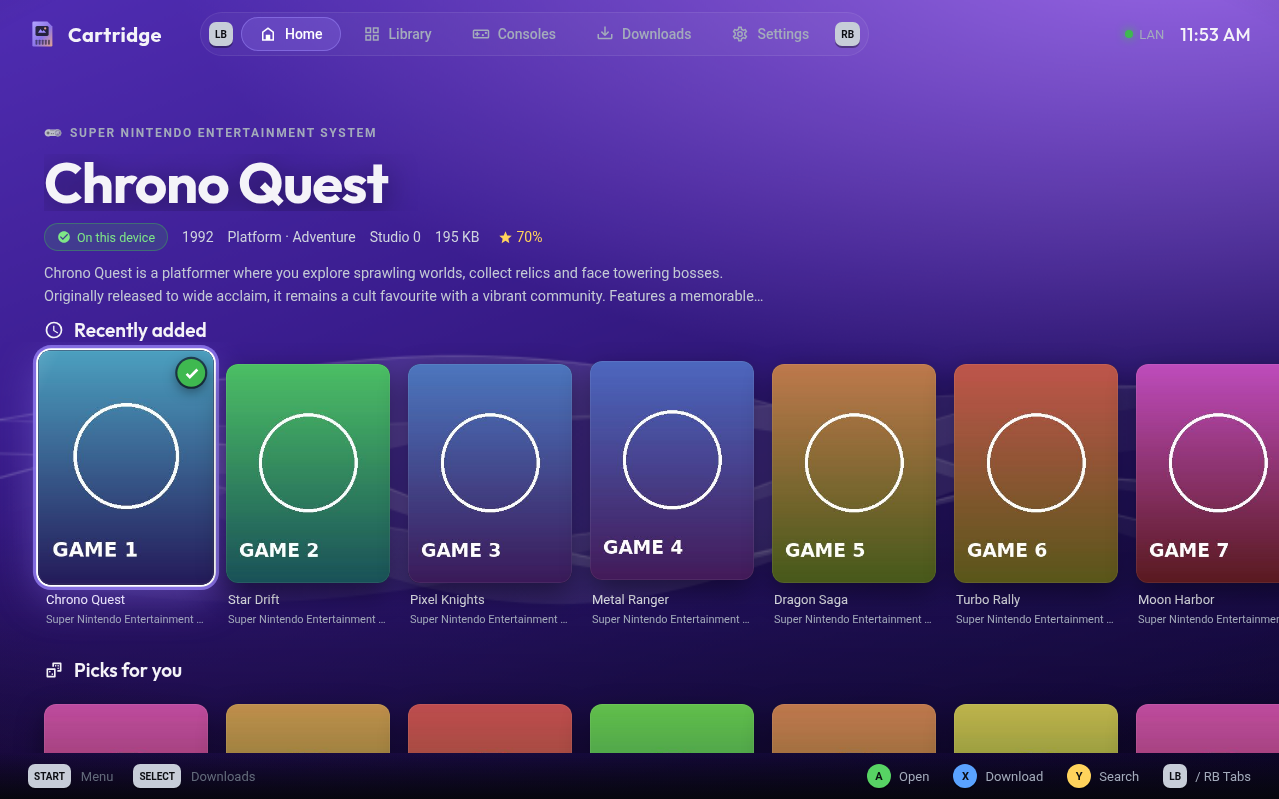
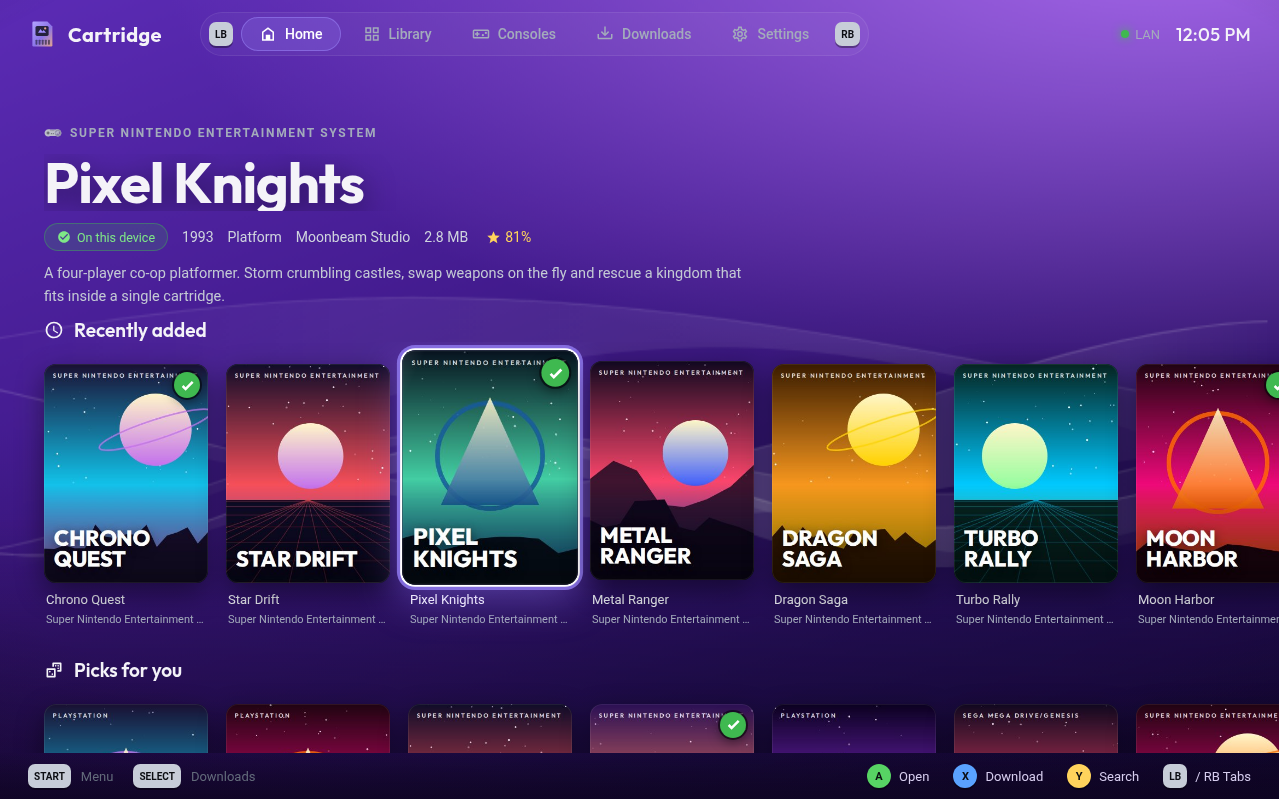
Release 2.3.1: new README, fresh screenshots, auto-publish on version bump
- Revamped front page with badges, download button, highlights and tour
- Screenshots retaken on the XMB background with a full demo library
- Release workflow now runs when package.json version changes on main
- Toasts move aside while the Quick Menu is open

Claude-Session: https://claude.ai/code/session_01TWmdTMdKUi4SSP1imipT8V

diff --git a/src/styles.css b/src/styles.css
@@ -150,6 +150,7 @@ img { -webkit-user-drag: none; }
 .toast .ti { width: 30px; height: 30px; border-radius: 50%; display: grid; place-items: center; background: rgba(139, 116, 232, 0.25); color: #cfc4ff; flex: none; }
 .toast.ok .ti { background: rgba(63, 185, 80, 0.2); color: var(--green-l); }
 .toast.error .ti { background: rgba(255, 107, 97, 0.18); color: #ffa39c; }
+.toasts.shifted { right: 430px; }
 @keyframes toastIn { from { transform: translateX(30px); opacity: 0; } }
 
 .scrim { position: fixed; inset: 0; background: rgba(3, 4, 7, 0.66); backdrop-filter: blur(10px); display: grid; place-items: center; z-index: 50; animation: fade 0.2s; }

diff --git a/src/App.vue b/src/App.vue
@@ -39,7 +39,7 @@
   <FolderPicker v-if="store.modal?.type === 'folder'" v-bind="store.modal.props" />
   <Menu v-if="store.modal?.type === 'menu'" v-bind="store.modal.props" />
 
-  <div class="toasts">
+  <div class="toasts" :class="{ shifted: store.quickMenu }">
     <div v-for="t in store.toasts" :key="t.id" class="toast" :class="t.kind"><span class="ti"><Icon :name="t.icon" :size="18" /></span>{{ t.msg }}</div>
   </div>
 </template>

diff --git a/README.md b/README.md
@@ -1,60 +1,133 @@
-<p align="center"><img src="docs/banner.png" width="620" alt="Cartridge"></p>
+<div align="center">
 
-<p align="center"><b>Your RomM library, on the couch.</b><br>
-A controller-first RomM client for SteamOS and Bazzite. Browse your library in Game Mode and pull games straight into your EmuDeck / ES-DE folders.</p>
+<img src="docs/logo.png" width="520" alt="Cartridge">
 
-<p align="center"><a href="https://github.com/abdu2304/cartridge/releases/latest/download/Cartridge-x86_64.AppImage"><b>⬇ Download Cartridge-x86_64.AppImage</b></a></p>
+### Your RomM library, on the couch.
 
-![Home](docs/home.png)
+A controller-first [RomM](https://github.com/rommapp/romm) client for **SteamOS** and **Bazzite**.<br>
+Browse your whole library in Game Mode and pull games straight into your EmuDeck / ES-DE folders.
 
-| Library | Consoles |
-|---|---|
-| ![Library](docs/library.png) | ![Consoles](docs/consoles.png) |
+[![Latest release](https://img.shields.io/github/v/release/abdu2304/cartridge?style=for-the-badge&color=8b74e8&label=release)](https://github.com/abdu2304/cartridge/releases/latest)
+[![Downloads](https://img.shields.io/github/downloads/abdu2304/cartridge/total?style=for-the-badge&color=a18fff)](https://github.com/abdu2304/cartridge/releases)
+[![Platform](https://img.shields.io/badge/SteamOS%20%7C%20Bazzite-AppImage-e1a38d?style=for-the-badge&logo=steamdeck&logoColor=white)](#install)
+[![License](https://img.shields.io/badge/license-MIT-6043c8?style=for-the-badge)](LICENSE)
 
-![Game page](docs/game.png)
+<a href="https://github.com/abdu2304/cartridge/releases/latest/download/Cartridge-x86_64.AppImage"><img src="https://img.shields.io/badge/Download-Cartridge--x86__64.AppImage-8b74e8?style=for-the-badge&logo=linux&logoColor=white" height="42" alt="Download"></a>
 
-## What it does
+<br><br>
 
-- **Your RomM library, synced locally.** Opens instantly and works offline. Covers, screenshots, descriptions, genres, console icons and collections all come straight from RomM.
-- **Home like RomM.** Recently added, Picks for you, On this device, New since last sync, Collections and Consoles.
-- **Downloads into the right folder.** Every console is matched to its ES-DE folder name inside your EmuDeck `roms` folder, and you can override any of them.
-- **Resumable downloads.** Multi-file games download file by file, and multi-disc games get an `.m3u` and a `Game.m3u/` folder so ES-DE shows them as one game.
-- **BIOS** from RomM's firmware, per console.
-- **Resync and Scan server** pick up new games you add to RomM, with NEW badges.
-- **Built for Game Mode.** Full controller navigation, an on-screen keyboard, a PSP XMB-style background, UI sounds, and a Quick Menu on Start.
-- **Connects any way.** LAN address, Cloudflare Tunnel, or both with automatic fallback. Supports username/password, RomM pairing codes, API tokens and Cloudflare Access service tokens.
-- **Updates itself** from GitHub Releases.
+<img src="docs/home.png" width="900" alt="Cartridge home screen">
 
-## Install on Steam Deck / Bazzite
+</div>
 
-1. In Desktop Mode, download [`Cartridge-x86_64.AppImage`](https://github.com/abdu2304/cartridge/releases/latest/download/Cartridge-x86_64.AppImage) and move it somewhere permanent, like `~/Applications/`. Keep the file name as it is, because updates replace it in place.
-2. Right-click it → Properties → Permissions → **Is executable**.
+<br>
+
+## ✦ Highlights
+
+<table>
+<tr>
+<td width="50%" valign="top">
+
+**🎮 Made for Game Mode**<br>
+Every screen works with a controller: D-pad navigation, an on-screen keyboard, button hints, a Quick Menu on Start, soft UI sounds and a PSP XMB-inspired background.
+
+</td>
+<td width="50%" valign="top">
+
+**🗂 Straight from RomM**<br>
+Covers, screenshots, descriptions, genres, developers, ratings, console icons and collections all come from your RomM server. Nothing is scraped twice.
+
+</td>
+</tr>
+<tr>
+<td valign="top">
+
+**📥 Lands in the right folder**<br>
+Each console is matched to its ES-DE folder inside your EmuDeck `roms` directory, with per-console overrides. Downloads resume, multi-disc games get an `.m3u`, and BIOS files come from RomM too.
+
+</td>
+<td valign="top">
+
+**🔄 Always in sync**<br>
+Your library is mirrored locally, so it opens instantly and works offline. Resync or ask RomM to scan for new ROMs from the couch, and new games get a NEW badge.
+
+</td>
+</tr>
+</table>
+
+<br>
+
+## ✦ Tour
+
+<table>
+<tr>
+<td width="50%"><img src="docs/library.png" alt="Library"><p align="center"><b>Library</b> · every game, filter by console, collection or status</p></td>
+<td width="50%"><img src="docs/consoles.png" alt="Consoles"><p align="center"><b>Consoles</b> · your RomM platforms with icons and counts</p></td>
+</tr>
+<tr>
+<td><img src="docs/console.png" alt="Console view"><p align="center"><b>Console view</b> · box art grid with a live details panel</p></td>
+<td><img src="docs/game.png" alt="Game page"><p align="center"><b>Game page</b> · metadata, screenshots and one-button download</p></td>
+</tr>
+<tr>
+<td><img src="docs/downloads.png" alt="Downloads"><p align="center"><b>Downloads</b> · queue, progress, pause and resume</p></td>
+<td><img src="docs/settings.png" alt="Settings"><p align="center"><b>Settings</b> · sync, folders, look &amp; feel</p></td>
+</tr>
+</table>
+
+<br>
+
+## ✦ Install
+
+1. In **Desktop Mode**, download [`Cartridge-x86_64.AppImage`](https://github.com/abdu2304/cartridge/releases/latest/download/Cartridge-x86_64.AppImage) and move it somewhere permanent, like `~/Applications/`.
+   Keep the file name as it is, because updates replace it in place.
+2. Right-click it → **Properties → Permissions → Is executable**.
 3. In Steam: **Games → Add a Non-Steam Game to My Library → Browse** and pick the AppImage.
-4. Open Cartridge, sign in, and choose your `roms` folder. It auto-detects EmuDeck and ES-DE.
+4. Launch Cartridge, sign in to RomM, and choose your `roms` folder. EmuDeck and ES-DE setups are detected automatically.
 5. Optional: go to **Settings → About → Apply Steam artwork** and restart Steam for the Cartridge cover, banner and logo.
 
-## Controls
+Then switch to Game Mode and play.
+
+<br>
+
+## ✦ Connecting to RomM
+
+| | |
+|---|---|
+| **Addresses** | A LAN address, a Cloudflare Tunnel address, or both. In **Auto** mode Cartridge uses the LAN when you're home and falls back to the tunnel. |
+| **Sign-in** | Username & password, a RomM **pairing code**, or an `rmm_` API token. |
+| **Cloudflare Access** | Optional service-token headers if your tunnel sits behind Zero Trust. |
+| **Server scans** | "Scan server for new ROMs" needs username & password sign-in. |
+
+<br>
+
+## ✦ Controls
 
 | Button | Action |
-|---|---|
-| D-pad / left stick | Move |
-| A | Select |
-| B | Back |
-| X | Download highlighted game |
-| Y | Search |
-| LB / RB | Switch tabs (inside a console or collection: previous / next) |
-| LT / RT | Page up / down |
-| Select | Downloads (in a grid: cycle All / On device / Not downloaded / New) |
-| Start | Quick Menu: resync, scan server, updates, sounds, quit |
+|:---:|---|
+| **D-pad / Stick** | Move |
+| **A** | Select |
+| **B** | Back |
+| **X** | Download highlighted game |
+| **Y** | Search |
+| **LB / RB** | Switch tabs · inside a console or collection: previous / next |
+| **LT / RT** | Page up / down |
+| **Select** | Downloads · in a grid: cycle All / On device / Not downloaded / New |
+| **Start** | Quick Menu |
 
-## Build from source
+<br>
+
+## ✦ Build from source
 
 ```bash
 npm install
-npm start          # run in development
-npm run dist       # build release/Cartridge-x86_64.AppImage
+npm start       # run in development
+npm run dist    # build release/Cartridge-x86_64.AppImage
 ```
 
-Pushing a `v*` tag builds the AppImage on GitHub Actions and publishes it as a release, which installed copies pick up automatically.
+Bumping `version` in `package.json` on `main` builds the AppImage on GitHub Actions and publishes it as a release. Installed copies pick it up automatically.
 
-Settings live in `~/.config/Cartridge/`.
+Settings and the library cache live in `~/.config/Cartridge/`.
+
+<br>
+
+<div align="center"><sub>Cartridge is an unofficial client and isn't affiliated with the RomM project. Screenshots use a demo library with original placeholder art.</sub></div>
